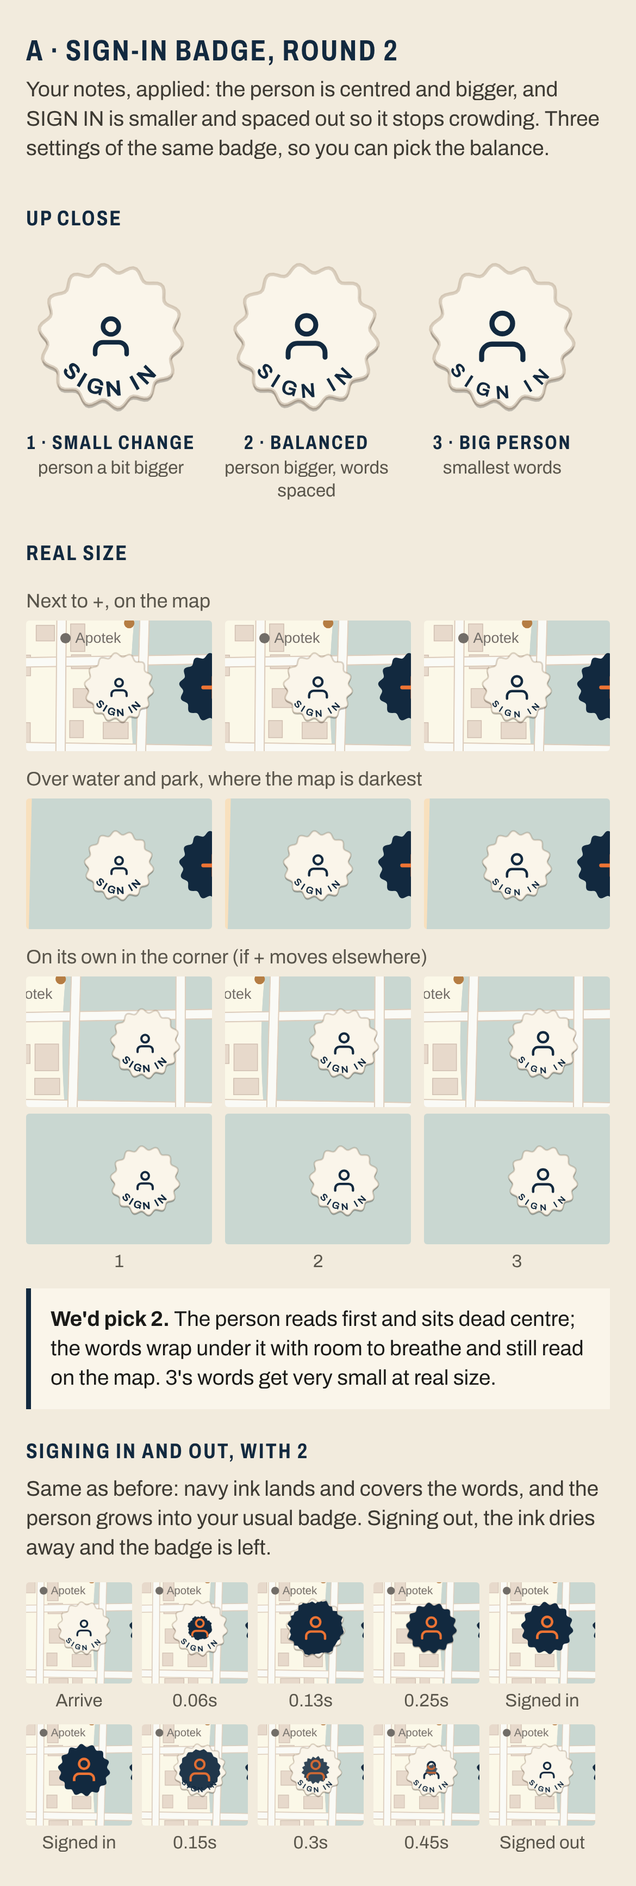
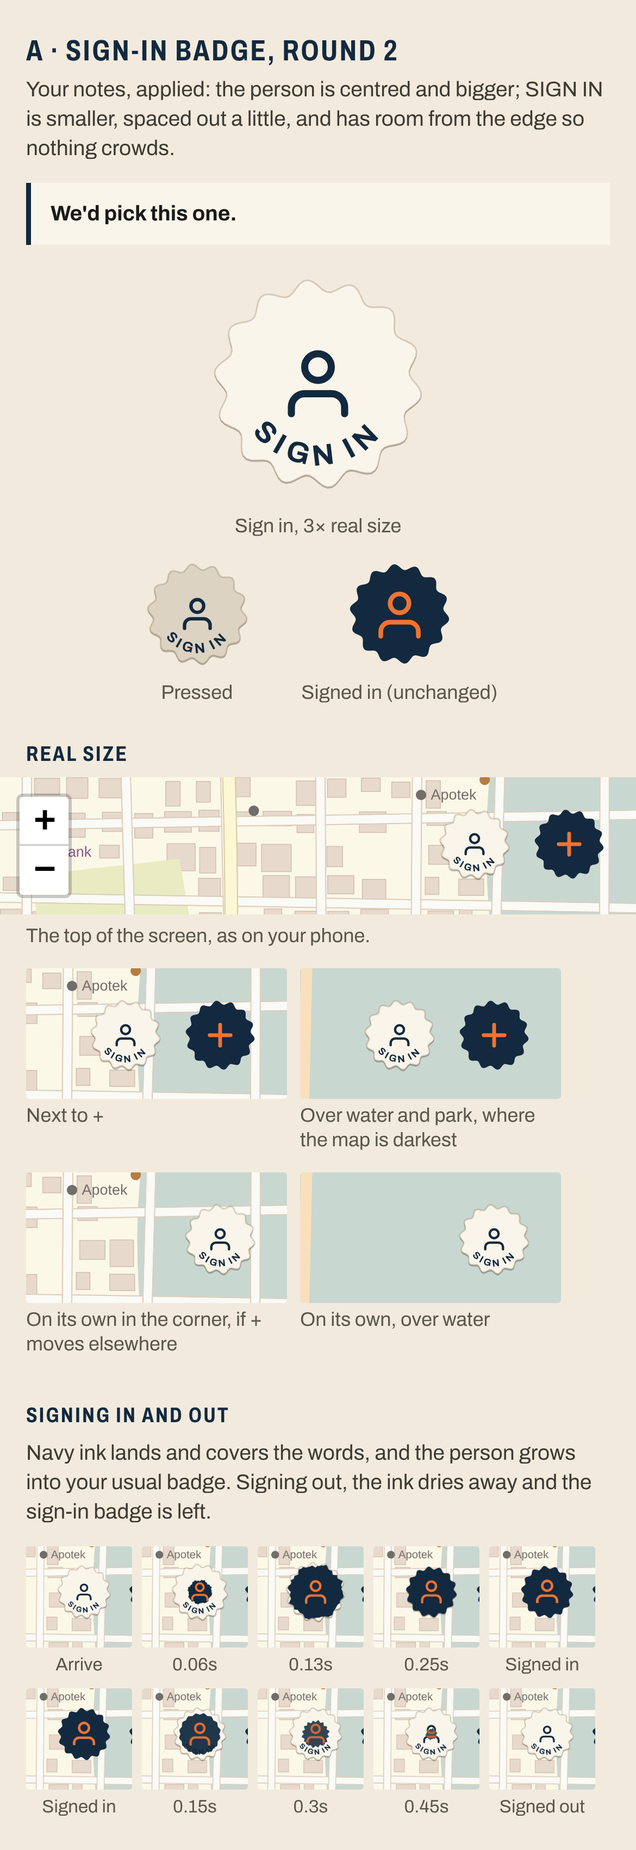
Sign-in button: round 2b fixes to variant 2
Claude-Session: https://claude.ai/code/session_01DgU7ophvEWkwzRHqdd2X8u

diff --git a/design/add-button-placement/concepts/stub-stress/stress.js b/design/add-button-placement/concepts/stub-stress/stress.js
@@ -1,0 +1,90 @@
+// Systems pass 2: stress-test the claim-check stub (visual designer's turn-2 sketch, unchanged look)
+// against the director's six checks + the "Close and Add in the thumb band" claim + the One-band wildcard.
+// Injects into an in-memory COPY of index.html. Run: node stress.js  (ONLY=<scenario> to run one)
+const { chromium } = require('/opt/node22/lib/node_modules/playwright');
+const fs = require('fs'); const H = '/home/user/la-trip-map/design/gesture-harness'; const OUT = __dirname;
+const d = fs.readdirSync('/opt/pw-browsers').filter(x => /^chromium-\d+$/.test(x)).sort().pop();
+const PLUS = '<svg width="24" height="24" viewBox="0 0 24 24" fill="none" stroke="currentColor" stroke-width="2.75" stroke-linecap="round"><line x1="12" y1="5" x2="12" y2="19"/><line x1="5" y1="12" x2="19" y2="12"/></svg>';
+const X = '<svg width="24" height="24" viewBox="0 0 24 24" fill="none" stroke="currentColor" stroke-width="2.75" stroke-linecap="round"><line x1="6" y1="6" x2="18" y2="18"/><line x1="18" y1="6" x2="6" y2="18"/></svg>';
+const SIGNOUT = `;(function(){const cc=window.supabase.createClient;window.supabase.createClient=function(){const c=cc.apply(this,arguments);
+if(location.search.includes('signin')){c.auth.getSession=async()=>({data:{session:null}});c.auth.onAuthStateChange=()=>({data:{subscription:{unsubscribe(){}}}});}return c}})();`;
+// the stub, as sketched in turn 2 (orange field, dashed perforation, navy +); open = "swap ends" (navy field, orange x)
+const STUB_CSS = `#floatingAddBtn{display:none!important} #accountBtn{right:var(--s4)!important}
+  #locationsHeader{padding-right:84px}
+  #nb{position:absolute;right:0;top:0;bottom:0;width:68px;border:0;padding:0;background:var(--brand-orange);color:#12293F;display:flex;align-items:center;justify-content:center;cursor:pointer}
+  #nb::before{content:'';position:absolute;left:0;top:6px;bottom:6px;border-left:1.5px dashed rgba(18,41,63,.55)}
+  #nb.open{background:var(--navy);color:var(--brand-orange)} #nb.open::before{border-color:rgba(242,235,221,.5)}`;
+// One band wildcard: no chrome on the map; zoom gone (pinch), account becomes a header icon left of the stub.
+const ONEBAND_CSS = `.leaflet-control-zoom{display:none!important} #accountBtn{display:none!important}
+  #locationsHeader{padding-right:84px} #acct2{width:32px;height:32px;border:0;background:none;color:var(--navy);display:flex;align-items:center;justify-content:center;padding:0}`;
+const scenarios = {
+  // claim: Close (stub turned x) and ADD LOCATION both in the thumb band, form unchanged -- at 844 and at 664 (Safari tab with toolbars)
+  form844:   { vp: [390, 844], act: 'form' },
+  form664:   { vp: [390, 664], act: 'form' },
+  form667se: { vp: [375, 667], act: 'form' },
+  // 1 safe area, list collapsed: emulate a Home Screen launch on a notched phone (34px bottom, 47px top)
+  safearea:  { vp: [390, 844], inset: true, act: 'collapse' },
+  // 2 filters panel open
+  filters:   { vp: [390, 844], act: 'filters' },
+  // 3 320 wide, longest city + a long plan-like title
+  narrow:    { vp: [320, 640], act: 'narrow' },
+  // 4 tag open on a starred place + navy selected row + stub
+  tag:       { vp: [390, 844], act: 'tag' },
+  // 5 signed out (tap -> sign in) and playground (tap -> add)
+  signedout: { vp: [390, 844], q: '?signin', stubJs: SIGNOUT, act: 'tapstub' },
+  play:      { vp: [390, 844], q: '?play', act: 'tapstub' },
+  // 6 desktop rail
+  desktop:   { vp: [1280, 800], dsf: 1, act: 'none' },
+  // wildcard
+  oneband:   { vp: [390, 844], act: 'oneband' },
+};
+(async () => {
+  const b = await chromium.launch({ executablePath: `/opt/pw-browsers/${d}/chrome-linux/chrome` });
+  let html0 = fs.readFileSync('/home/user/la-trip-map/index.html', 'utf8');
+  for (const [name, s] of Object.entries(scenarios).filter(([n]) => !process.env.ONLY || n === process.env.ONLY)) {
+    let html = html0;
+    if (s.inset) html = html.replace(/env\(safe-area-inset-bottom(, *0px)?\)/g, '34px').replace(/env\(safe-area-inset-top(, *0px)?\)/g, '47px')
+      .replace('<html lang="en">', '<html lang="en" class="standalone" style="--chrome-top-inset:47px">');
+    const ctx = await b.newContext({ viewport: { width: s.vp[0], height: s.vp[1] }, deviceScaleFactor: s.dsf || 3, hasTouch: !s.dsf, isMobile: !s.dsf });
+    const page = await ctx.newPage(); const errs = []; page.on('pageerror', e => errs.push(e.message));
+    await page.route('**/*', r => { const u = r.request().url();
+      if (u.startsWith('https://triplet.test/')) return r.fulfill({ contentType: 'text/html', body: html });
+      if (u.includes('leaflet.js')) return r.fulfill({ contentType: 'application/javascript', body: fs.readFileSync(H + '/vendor/leaflet.js') });
+      if (u.includes('leaflet.css')) return r.fulfill({ contentType: 'text/css', body: fs.readFileSync(H + '/vendor/leaflet.css') });
+      if (u.includes('supabase')) return r.fulfill({ contentType: 'application/javascript', body: fs.readFileSync(H + '/stub.js', 'utf8') + (s.stubJs || '') });
+      if (u.includes('fonts.googleapis.com')) return r.fulfill({ contentType: 'text/css', body: fs.readFileSync(H + '/vendor/archivo.css') });
+      if (u.includes('fonts.gstatic.com')) { const f = H + '/vendor/' + u.split('/').pop(); return fs.existsSync(f) ? r.fulfill({ contentType: 'font/woff2', body: fs.readFileSync(f) }) : r.fulfill({ status: 404, body: '' }); }
+      return r.fulfill({ status: 404, body: '' }); });
+    await page.goto('https://triplet.test/index.html' + (s.q || ''));
+    await page.waitForFunction(() => document.querySelectorAll('#locationsList .location-card[data-id]').length > 5);
+    await page.evaluate(() => document.fonts.ready);
+    await page.evaluate(({ css, plus, x, oneband, obcss }) => {
+      const st = document.createElement('style'); st.textContent = css + (oneband ? obcss : ''); document.head.appendChild(st);
+      const nb = document.createElement('button'); nb.id = 'nb'; nb.setAttribute('aria-label', 'Add a place'); nb.innerHTML = plus;
+      const fab = document.getElementById('floatingAddBtn');
+      nb.onclick = () => fab.click();
+      new MutationObserver(() => { const o = fab.classList.contains('active'); nb.classList.toggle('open', o); nb.innerHTML = o ? x : plus; }).observe(fab, { attributes: true });
+      const hdr = document.getElementById('locationsHeader'); hdr.appendChild(nb);
+      if (oneband) { const a = document.createElement('button'); a.id = 'acct2'; a.innerHTML = document.getElementById('accountBtn').innerHTML; a.querySelector('svg').setAttribute('width', 20); a.querySelector('svg').setAttribute('height', 20);
+        hdr.insertBefore(a, nb); }
+    }, { css: STUB_CSS, plus: PLUS, x: X, oneband: s.act === 'oneband', obcss: ONEBAND_CSS });
+    await page.waitForTimeout(500);
+    const box = sel => page.evaluate(q => { const e = document.querySelector(q); if (!e) return null; const r = e.getBoundingClientRect(); return r.width ? [r.left, r.top, r.right, r.bottom].map(Math.round) : 'hidden'; }, sel);
+    const m = {};
+    if (s.act === 'form' || s.act === 'tapstub') {
+      await page.click('#nb'); await page.waitForTimeout(600);
+      m.submit = await box('#submitBtn'); m.search = await box('#nameInput'); m.stub = await box('#nb'); m.authModal = await page.evaluate(() => document.getElementById('authModal').classList.contains('show'));
+      m.formVisible = await page.evaluate(() => document.getElementById('addForm').classList.contains('show'));
+      m.submitHitIsSubmit = m.submit && m.submit !== 'hidden' ? await page.evaluate(([l, t, r, bt]) => { const e = document.elementFromPoint((l + r) / 2, (t + bt) / 2); return e && (e.id || e.className || e.tagName); }, m.submit) : null;
+    }
+    if (s.act === 'collapse') { await page.click('#collapseBtn'); await page.waitForTimeout(700); }
+    if (s.act === 'filters') { await page.click('#toggleFiltersBtn'); await page.waitForTimeout(600); m.panel = await box('#filtersPanel'); }
+    if (s.act === 'narrow') { await page.evaluate(() => { document.querySelector('#locationsHeader h2').textContent = 'Copenhagen List (112)'; }); await page.waitForTimeout(200); }
+    if (s.act === 'tag') { const cards = await page.$$('#locationsList .location-card[data-id]'); await cards[1].click(); await page.waitForTimeout(1600); m.tag = await box('.leaflet-popup'); }
+    m.nb = await box('#nb'); m.header = await box('#locationsHeader'); m.vp = s.vp; m.errs = errs;
+    console.log(name, JSON.stringify(m));
+    await page.screenshot({ path: `${OUT}/${name}-${s.dsf || 3}x.png` });
+    await ctx.close();
+  }
+  await b.close();
+})();

diff --git a/design/signin-button/concepts/A-arc-badge/round2/sheet.html b/design/signin-button/concepts/A-arc-badge/round2/sheet.html
@@ -1,29 +1,25 @@
 <!doctype html><html><head><meta charset="utf-8"><meta name="viewport" content="width=390"><title>Sign-in A round 2</title>
 <link rel="stylesheet" href="../../flow/proto/sheet.css">
 <style>
-.row3{display:flex;gap:8px;padding:2px 16px 2px}.row3>div{width:114px;display:flex;flex-direction:column;align-items:center}
-.row3 img{display:block;border-radius:2px}.row3 .t{font-size:11px;line-height:14px;color:#5A564C;text-align:center;margin-top:3px}
-.lab{font:700 12px/15px Archivo;font-stretch:75%;letter-spacing:.08em;text-transform:uppercase;color:#12293F;text-align:center;margin-top:6px}
-.sub{font-size:11px;line-height:14px;color:#5A564C;text-align:center}
-.rl{font-size:12px;line-height:15px;color:#5A564C;padding:8px 16px 2px}
-.pick{background:#FAF5EA;margin:8px 16px 0;padding:10px 12px;border-left:3px solid #12293F;font-size:13px;line-height:18px}
+.hero{display:flex;flex-direction:column;align-items:center;padding:10px 16px 4px}
+.trio{display:flex;justify-content:center;gap:28px;padding:6px 16px 4px}.trio>div{display:flex;flex-direction:column;align-items:center}
+.t{font-size:12px;line-height:15px;color:#5A564C;text-align:center;margin-top:5px}
+.row2{display:flex;gap:8px;padding:2px 16px}.row2>div{width:160px}.row2 img{display:block;border-radius:2px}
+.rl{font-size:12px;line-height:15px;color:#5A564C;padding:3px 0 8px}
+.pick{background:#FAF5EA;margin:4px 16px 0;padding:10px 12px;border-left:3px solid #12293F;font-size:13px;line-height:18px}
 </style>
 <script>window.__CONCEPT='A'</script><script src="../../flow/proto/patch.js"></script><script src="badge2.js"></script></head><body>
 <h1>A · Sign-in badge, round 2</h1>
-<p>Your notes, applied: the person is centred and bigger, and SIGN IN is smaller and spaced out so it stops crowding. Three settings of the same badge, so you can pick the balance.</p>
-<h2>Up close</h2>
-<div class="big" id="big"></div>
+<p>Your notes, applied: the person is centred and bigger; SIGN IN is smaller, spaced out a little, and has room from the edge so nothing crowds.</p>
+<div class="pick"><b>We'd pick this one.</b></div>
+<div class="hero" id="hero"></div>
+<div class="trio" id="trio"></div>
 <h2>Real size</h2>
-<div class="rl">Next to +, on the map</div>
-<div class="row3"><div><img src="shots/c-v1-cream-plus.png" width="114" height="80"></div><div><img src="shots/c-v2-cream-plus.png" width="114" height="80"></div><div><img src="shots/c-v3-cream-plus.png" width="114" height="80"></div></div>
-<div class="rl">Over water and park, where the map is darkest</div>
-<div class="row3"><div><img src="shots/c-v1-dark-plus.png" width="114" height="80"></div><div><img src="shots/c-v2-dark-plus.png" width="114" height="80"></div><div><img src="shots/c-v3-dark-plus.png" width="114" height="80"></div></div>
-<div class="rl">On its own in the corner (if + moves elsewhere)</div>
-<div class="row3"><div><img src="shots/c-v1-cream-alone.png" width="114" height="80"></div><div><img src="shots/c-v2-cream-alone.png" width="114" height="80"></div><div><img src="shots/c-v3-cream-alone.png" width="114" height="80"></div></div>
-<div class="row3"><div><img src="shots/c-v1-dark-alone.png" width="114" height="80"><div class="t">1</div></div><div><img src="shots/c-v2-dark-alone.png" width="114" height="80"><div class="t">2</div></div><div><img src="shots/c-v3-dark-alone.png" width="114" height="80"><div class="t">3</div></div></div>
-<div class="pick"><b>We'd pick 2.</b> The person reads first and sits dead centre; the words wrap under it with room to breathe and still read on the map. 3's words get very small at real size.</div>
-<h2>Signing in and out, with 2</h2>
-<p>Same as before: navy ink lands and covers the words, and the person grows into your usual badge. Signing out, the ink dries away and the badge is left.</p>
+<img class="img" src="shots/top-v2-390.png" width="390" height="84"><div class="cap">The top of the screen, as on your phone.</div>
+<div class="row2"><div><img src="shots/v2-cream-plus.png" width="160" height="80"><div class="rl">Next to +</div></div><div><img src="shots/v2-dark-plus.png" width="160" height="80"><div class="rl">Over water and park, where the map is darkest</div></div></div>
+<div class="row2"><div><img src="shots/v2-cream-alone.png" width="160" height="80"><div class="rl">On its own in the corner, if + moves elsewhere</div></div><div><img src="shots/v2-dark-alone.png" width="160" height="80"><div class="rl">On its own, over water</div></div></div>
+<h2>Signing in and out</h2>
+<p>Navy ink lands and covers the words, and the person grows into your usual badge. Signing out, the ink dries away and the sign-in badge is left.</p>
 <div class="frames">
 <div style="width:65px"><img src="shots/in-0.png" width="65" height="62"><div class="t">Arrive</div></div>
 <div style="width:65px"><img src="shots/in-60.png" width="65" height="62"><div class="t">0.06s</div></div>
@@ -40,7 +36,7 @@
 </div>
 <div style="height:16px"></div>
 <script>
-const L = { 1: ['Small change', 'person a bit bigger'], 2: ['Balanced', 'person bigger, words spaced'], 3: ['Big person', 'smallest words'] };
-for (const v of [1, 2, 3]) big.innerHTML += `<div>${SB.badgeA({ v, size: 104 })}<div class="lab">${v} · ${L[v][0]}</div><div class="sub">${L[v][1]}</div></div>`;
+hero.innerHTML = `${SB.badgeA({ v: 2, size: 150 })}<div class="t">Sign in, 3× real size</div>`;
+trio.innerHTML = `<div>${SB.badgeA({ v: 2, size: 72, face: '#DCD3C3' })}<div class="t">Pressed</div></div><div>${SB.signedIn(72)}<div class="t">Signed in (unchanged)</div></div>`;
 document.fonts.ready.then(() => SB.centerArcs());
 </script></body></html>

diff --git a/design/signin-button/concepts/flow/sheet.html b/design/signin-button/concepts/flow/sheet.html
@@ -1,2 +1,2 @@
 <!doctype html><html><head><meta charset="utf-8"><meta name="viewport" content="width=390"><title>Sign-in flow</title>
-<link rel="stylesheet" href="proto/sheet.css"><script>window.__CONCEPT='A'</script><script src="proto/patch.js"></script></head><body><h1>Signing in, both concepts</h1><p>Only the words in the sign-in sheet change; its look stays as it is today.</p><h2>1 · Tap Sign in in the playground</h2><p>The sheet opens over whatever you were looking at. Nothing behind it changes.</p><div style="display:flex;gap:8px;padding:0 16px"><img src="shots/play-tag-open.png" width="175" height="251"><img src="shots/play-sheet-full.png" width="175" height="251"></div><div class="cap">Left: a place open in the playground. Right: after tapping Sign in.</div><h2>2 · The sheet</h2><img class="img" src="shots/sheet-open.png" width="390" height="404" style=""><div class="cap">Visitors read why they can’t sign in, tap Keep playing, and lose nothing. Tapping outside the sheet does the same.</div><h2>3 · While it checks</h2><img class="img" src="shots/sheet-busy.png" width="358" height="113" style="margin-left:16px"><div class="cap">The button says Signing in… and can’t be tapped twice.</div><h2>4 · If something’s wrong</h2><img class="img" src="shots/sheet-wrong.png" width="358" height="133" style="margin-left:16px"><img class="img" src="shots/sheet-offline.png" width="358" height="133" style="margin-left:16px"><div class="cap">Your email stays; nothing is lost, and you’re still in the playground.</div><h2>5 · You arrive in the real trip</h2><p>The badge you tapped is there for a beat, then it’s inked into your account badge. This only plays right after signing in, not on every visit.</p><div class="frames"><div style="width:86px"><img src="../A-arc-badge/shots/in-0.png" width="86" height="82"><div class="t">Arrive</div></div><div style="width:86px"><img src="../A-arc-badge/shots/in-130.png" width="86" height="82"><div class="t">Inked</div></div><div style="width:86px"><img src="../A-arc-badge/shots/in-380.png" width="86" height="82"><div class="t">Signed in</div></div></div><h2>Two questions for you</h2><div class="q"><b>1.</b> When you’re signed out of the real trip (new phone, cleared Safari), should this same sign-in button sit in the corner? Today nothing is there until you try to edit. <b>We recommend yes.</b> Then the sheet looks like this, without the playground line:</div><img class="img" src="shots/sheet-real.png" width="358" height="232" style="margin-left:16px"><div class="q"><b>2.</b> Is the line in the sign-in sheet enough to tell visitors their changes aren’t kept, or do you want something on the map too?</div><div style="height:16px"></div></body></html>
+<link rel="stylesheet" href="proto/sheet.css"><script>window.__CONCEPT='A'</script><script src="proto/patch.js"></script></head><body><h1>Signing in</h1><p>Only the words in the sign-in sheet change; its look stays as it is today.</p><h2>1 · Tap Sign in in the playground</h2><p>The sheet opens over whatever you were looking at. Nothing behind it changes.</p><div style="display:flex;gap:8px;padding:0 16px"><img src="shots/play-tag-open.png" width="175" height="251"><img src="shots/play-sheet-full.png" width="175" height="251"></div><div class="cap">Left: a place open in the playground. Right: after tapping Sign in.</div><h2>2 · The sheet</h2><img class="img" src="shots/sheet-open.png" width="390" height="404" style=""><div class="cap">Visitors read why they can’t sign in, tap Keep playing, and lose nothing. Tapping outside the sheet does the same.</div><h2>3 · While it checks</h2><img class="img" src="shots/sheet-busy.png" width="358" height="113" style="margin-left:16px"><div class="cap">The button says Signing in… and can’t be tapped twice.</div><h2>4 · If something’s wrong</h2><img class="img" src="shots/sheet-wrong.png" width="358" height="133" style="margin-left:16px"><img class="img" src="shots/sheet-offline.png" width="358" height="133" style="margin-left:16px"><div class="cap">Your email stays; nothing is lost, and you’re still in the playground.</div><h2>5 · You arrive in the real trip</h2><p>The badge you tapped is there for a beat, then it’s inked into your account badge. This only plays right after signing in, not on every visit.</p><div class="frames"><div style="width:86px"><img src="../A-arc-badge/round2/shots/in-0.png" width="86" height="82"><div class="t">Arrive</div></div><div style="width:86px"><img src="../A-arc-badge/round2/shots/in-130.png" width="86" height="82"><div class="t">Inked</div></div><div style="width:86px"><img src="../A-arc-badge/round2/shots/in-380.png" width="86" height="82"><div class="t">Signed in</div></div></div><h2>Two questions for you</h2><div class="q"><b>1.</b> When you’re signed out of the real trip (new phone, cleared Safari), should this same sign-in button sit in the corner? Today nothing is there until you try to edit. <b>We recommend yes.</b> Then the sheet looks like this, without the playground line:</div><img class="img" src="shots/sheet-real.png" width="358" height="232" style="margin-left:16px"><div class="q"><b>2.</b> Is the line in the sign-in sheet enough to tell visitors their changes aren’t kept, or do you want something on the map too?</div><div style="height:16px"></div></body></html>

diff --git a/design/signin-button/concepts/A-arc-badge/round2/badge2.js b/design/signin-button/concepts/A-arc-badge/round2/badge2.js
@@ -25,7 +25,8 @@ function arc(r, fs, ls, fw, st, op = 1, ws = ' ') {
   const id = 'sbR' + (uid++), half = Math.PI * r / 2 + ls / 2;
   return `<g class="sb-arc" opacity="${op}"><defs><path id="${id}" d="M${25 - r},25 A${r},${r} 0 0 0 ${25 + r},25"/></defs><text font-family="Archivo" font-weight="${fw}" font-stretch="${st}" font-size="${fs}" letter-spacing="${ls}" fill="${C.navy}"><textPath href="#${id}" startOffset="${half.toFixed(2)}" text-anchor="middle" data-r="${r}">SIGN${ws}IN</textPath></text></g>`;
 }
-const shadowEdge = (face) => `<polygon points="${SCALLOP}" fill="rgba(0,0,0,.22)" transform="translate(0,1)"/><polygon points="${SCALLOP}" style="fill:${face}" stroke="${C.edge}" stroke-width="1" stroke-linejoin="round"/>`;
+// k = blow-up factor for enlargements: edge and contact shadow stay 1 CSS px, as on the map
+const shadowEdge = (face, k = 1) => `<polygon points="${SCALLOP}" fill="rgba(0,0,0,.22)" transform="translate(0,${1 / k})"/><polygon points="${SCALLOP}" style="fill:${face}" stroke="${C.edge}" stroke-width="${1 / k}" stroke-linejoin="round"/>`;
 function blotPts(r) { const p = []; for (let i = 0; i < 48; i++) { const a = i / 48 * 2 * Math.PI, rr = r * (1 + .06 * Math.sin(i * 7.3) + .04 * Math.sin(i * 3.1)); p.push(`${(25 + rr * Math.cos(a)).toFixed(2)},${(25 + rr * Math.sin(a)).toFixed(2)}`); } return p.join(' '); }
 function dryPts(k) { const R = 21.5 * Math.pow(1 - k, .8), p = []; for (let i = 0; i < 64; i++) { const a = i / 64 * 2 * Math.PI, lobe = .5 + .5 * Math.cos(a * 16), rr = Math.max(0, R * (1 - .16 * lobe * Math.min(1, k * 2)) + .5 * Math.sin(i * 5.7) * k); p.push(`${(25 + rr * Math.cos(a)).toFixed(2)},${(25 + rr * Math.sin(a)).toFixed(2)}`); } return p.join(' '); }
 function inkLayer(pts, inner, op = 1) {
@@ -38,7 +39,7 @@ const wrap = (inner, size = 50) => `<svg width="${size}" height="${size}" viewBo
 SB.badgeA = function (o = {}) {
   const v = V[o.v || window.__V || 2];
   const t = o.t ?? 0, ps = v.ps + (1 - v.ps) * t, cy = v.cy + (25 - v.cy) * t, sw = v.sw + (2 - v.sw) * t;
-  let s = shadowEdge(o.face || FACE) + arc(v.r, v.fs, v.ls, v.fw, v.st, o.textOp ?? 1, v.ws) + person(25, cy, ps, C.navy, sw);
+  let s = shadowEdge(o.face || FACE, o.size ? o.size / 50 : 1) + arc(v.r, v.fs, v.ls, v.fw, v.st, o.textOp ?? 1, v.ws) + person(25, cy, ps, C.navy, sw);
   const pts = o.ink ? blotPts(o.ink) : o.dry !== undefined ? dryPts(o.dry) : null;
   if (pts) s += inkLayer(pts, person(25, cy, ps, C.orange, sw), o.dry !== undefined ? 1 - o.dry * .25 : 1);
   return wrap(s, o.size);

diff --git a/design/signin-button/concepts/flow/proto/make-sheets.js b/design/signin-button/concepts/flow/proto/make-sheets.js
@@ -37,7 +37,7 @@ const SBX = {
 sheet('A'); sheet('B');
 // flow sheet
 let h = head('Sign-in flow', 'A').replace(/\.\.\/flow\//g, '');
-h += `<h1>Signing in, both concepts</h1><p>Only the words in the sign-in sheet change; its look stays as it is today.</p>`;
+h += `<h1>Signing in</h1><p>Only the words in the sign-in sheet change; its look stays as it is today.</p>`;
 h += `<h2>1 · Tap Sign in in the playground</h2><p>The sheet opens over whatever you were looking at. Nothing behind it changes.</p>`;
 h += `<div style="display:flex;gap:8px;padding:0 16px"><img src="shots/play-tag-open.png" width="175" height="251"><img src="shots/play-sheet-full.png" width="175" height="251"></div>`;
 h += `<div class="cap">Left: a place open in the playground. Right: after tapping Sign in.</div>`;
@@ -46,7 +46,7 @@ h += `<h2>2 · The sheet</h2>` + card('sheet-open.png', 'Visitors read why they 
 h += `<h2>3 · While it checks</h2>` + card('sheet-busy.png', 'The button says Signing in… and can’t be tapped twice.');
 h += `<h2>4 · If something’s wrong</h2>` + card('sheet-wrong.png', '') + card('sheet-offline.png', 'Your email stays; nothing is lost, and you’re still in the playground.');
 h += `<h2>5 · You arrive in the real trip</h2><p>The badge you tapped is there for a beat, then it’s inked into your account badge. This only plays right after signing in, not on every visit.</p>`;
-h += frames([['../A-arc-badge/shots/in-0.png', 'Arrive'], ['../A-arc-badge/shots/in-130.png', 'Inked'], ['../A-arc-badge/shots/in-380.png', 'Signed in']], 86, 82, 1);
+h += frames([['../A-arc-badge/round2/shots/in-0.png', 'Arrive'], ['../A-arc-badge/round2/shots/in-130.png', 'Inked'], ['../A-arc-badge/round2/shots/in-380.png', 'Signed in']], 86, 82, 1);
 h += `<h2>Two questions for you</h2><div class="q"><b>1.</b> When you’re signed out of the real trip (new phone, cleared Safari), should this same sign-in button sit in the corner? Today nothing is there until you try to edit. <b>We recommend yes.</b> Then the sheet looks like this, without the playground line:</div>`;
 h += card('sheet-real.png', '');
 h += `<div class="q"><b>2.</b> Is the line in the sign-in sheet enough to tell visitors their changes aren’t kept, or do you want something on the map too?</div><div style="height:16px"></div></body></html>`;

diff --git a/design/signin-button/concepts/A-arc-badge/round2/README.md b/design/signin-button/concepts/A-arc-badge/round2/README.md
@@ -38,3 +38,23 @@ variant is picked, point it at `round2/shots/in-*.png` (render with that `V`) an
 ## Open
 - 5.5-6px caps at real size: the owner asked for smaller; Chromium renders read, iPhone unverified.
 - Weight 650 vs 700 at 6px: Safari's variable-font rendering of 650 is unchecked.
+
+## Round 2b: director's fixes to variant 2 (scores.md, round 2 entry; 2 scored 8)
+Variant 2 was overwritten in place (`badge2.js` V[2]); every v2 still, the motion frames, `sheet-3x.png` and the
+flow sheet were re-rendered over the same filenames. Variants 1 and 3 are dropped from the sheet. Their values and
+shots (`shots/v1-*`, `v3-*`) stay on disk for the record.
+- Arc baseline r 18.0 -> **16.6**. Scallop valleys measured at r 18.81, so the letters' feet clear them by **2.2px**
+  (1.7px to the inner side of the 1px edge stroke).
+- Tracking 1.8 -> **1.3px (0.22em)**. Word space -> **hair space U+200A**. Measured ink gaps (canvas, 100x):
+  S-I 2.01, I-G 2.06, G-N 2.16, **N-I 3.88**, I-N 2.21. So the word gap is **1.85x** the mean letter gap (2.11).
+- End letters (glyph start/end positions, after centring): **±53.8°** from 6 o'clock (target ≤60).
+- Weight 650 -> **700** so the I holds at 1x. Cap height 4.11px. Cap tops at r 12.49, figure's lowest ink at
+  r 6.85, which leaves ~5.6px between shoulders and caps. That's no crowding, so the person stays at true centre
+  (25,25; `cy` 25). No optical nudge was needed.
+- Enlargements draw the edge and contact shadow at 1 CSS px (`badgeA({size})` divides by the blow-up), so the
+  hero doesn't get a tan outline.
+- Sheet: leads with "We'd pick this one" and 2 at 3x (150px). Below it: pressed + signed in at 72px, the full
+  top-of-screen strip, and 1:1 crops next to +, over water, and on its own (cream, water). Then the in/out strips.
+- Flow sheet (`../../flow/sheet.html` + `proto/make-sheets.js`): the title is now "Signing in" (was "Signing in,
+  both concepts"), and frame 5 uses `A-arc-badge/round2/shots/in-0|130|380.png`. Re-shot `flow/sheet-3x.png`.
+- Measure again with `node measure.js 2` (uses `measure.html`).

diff --git a/design/signin-button/notes/visual.md b/design/signin-button/notes/visual.md
@@ -1,5 +1,14 @@
 # Visual designer notes: sign-in button
 
+## Round 2b (director scored 2 = 8, 1/3 = 7; fixes applied to 2 only, files overwritten in place)
+- V[2] now: person x0.68 at true centre (25,25), stroke 1.45; text 6px Archivo 700, 100% width, tracking 1.3px
+  (0.22em), hair space between words, baseline r 16.6.
+- Measured: valleys r 18.81 -> 2.2px clearance; ink gaps 2.01/2.06/2.16/[N-I 3.88]/2.21 -> word gap 1.85x;
+  end letters ±53.8° from 6 o'clock; cap tops r 12.49 vs figure ink r 6.85 (5.6px air, no nudge needed).
+- Enlargements: edge/shadow kept at 1 CSS px. Sheet leads with 2 alone; 1 and 3 dropped from the sheet.
+- Flow sheet re-titled "Signing in", frame 5 points at round2 frames; re-shot.
+- Next: director's quick real-size re-look; then the owner; then handoff looks-and-feels.
+
 ## Where things stand (round 2 of concept A, 2026-10-12; new visual designer took over)
 - Owner turned A down (rejection 1 of a 9): "on the right track but it's ugly. icon should be centered...
   maybe too small? text should be smaller and probably tracked out some because it's crowding".
